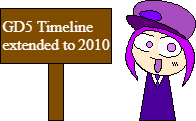
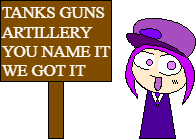
added Landkreuzer P.1500 Monster

diff --git a/data/generators/recipes.py b/data/generators/recipes.py
@@ -182,10 +182,15 @@ UNIT_SECTIONS = [
                     "speed": const(1), "cost_materials": const(16000), "cost_manpower": const(1000),
                     "cost_fuel": const(200), "production_time": const(6),
         }),
-        UnitFamily("Landkreuzer", roman_suffixes(2), {
-            "health": linear(10000, 2000), "attack": linear(6000, 1000), "defense": linear(800, 100),
-            "speed": const(1), "cost_materials": const(100000), "cost_manpower": const(2000),
-            "cost_fuel": const(3000), "production_time": const(8),
+        UnitFamily("Landkreuzer P.1000 Ratte", single(), {
+            "health": 10000, "attack": 6000, "defense": 800,
+            "speed": 1, "cost_materials": 100000, "cost_manpower": 2000,
+            "cost_fuel": 3000, "production_time": 8,
+        }),
+        UnitFamily("Landkreuzer P.1500 Monster", single(), {
+            "health": 15000, "attack": 8000, "defense": 800,
+            "speed": 1, "cost_materials": 150000, "cost_manpower": 2000,
+            "cost_fuel": 3000, "production_time": 8,
         }),
         UnitFamily("Main Battle Tank", roman_suffixes(14), {
             "health": linear(5000, 500), "attack": linear(5000, 500), "defense": linear(250, 25),
@@ -349,8 +354,10 @@ RESEARCH_SECTIONS = [
                          "req": {"medium_tank": 1}, "years": years_range(1929, 4, 4)}),
         ("super_heavy_tank", {"category": "TANKS", "max_lvl": 3, "cost": 2400,
                                 "req": {"heavy_tank": 4}, "years": years_range(1945, 4, 3)}),
-        ("landkreuzer", {"category": "TANKS", "max_lvl": 2, "cost": 3600,
-                                        "req": {"heavy_tank": 4}, "years": years_range(1944, 6, 2)}),
+        ("landkreuzer_p1000_ratte", {"category": "TANKS", "max_lvl": 1, "cost": 3000,
+                                        "req": {"heavy_tank": 4}, "years": years_range(1944, 6, 1)}),
+        ("landkreuzer_p1500_monster", {"category": "TANKS", "max_lvl": 1, "cost": 3600,
+                                                "req": {"landkreuzer_p1000_ratte": 1}, "years": years_range(1952, 8, 1)}),
         ("main_battle_tank", {"category": "TANKS", "max_lvl": 14, "cost": 2400,
                                "req": {"OR": [{"medium_tank": 4}, {"heavy_tank": 4}]},
                                "years": years_range(1945, 5, 14)}),

diff --git a/screens/map_related_screens/research.py b/screens/map_related_screens/research.py
@@ -65,7 +65,7 @@ class Research_Screen(GameState):
             "ww1_armored_car": y1, "armored_car": y1, "civilian_car": y1,
             "ww1_tank": y2, "light_tank": y2,
             "medium_tank": y3, "main_battle_tank": y3,
-            "heavy_tank": y4, "super_heavy_tank": y4, "landkreuzer": y5,
+            "heavy_tank": y4, "super_heavy_tank": y4, "landkreuzer_p1000_ratte": y5, "landkreuzer_p1500_monster": y5,
             "destroyer": y1,
             "carrack": y2, "ironclad": y2, "pre-dreadnought": y2, "dreadnought": y2,
             "battleship": y2,
@@ -151,6 +151,8 @@ class Research_Screen(GameState):
         if tech_key == "bergius_process": return "Bergius Process"
         if tech_key == "basic_factory": return "Basic Factory"
         if tech_key == "basic_recruitment": return "Basic Recruitment Center"
+        if tech_key == "landkreuzer_p1000_ratte": return "Landkreuzer P.1000 Ratte"
+        if tech_key == "landkreuzer_p1500_monster": return "Landkreuzer P.1500 Monster"
         if tech_key == "recruitment_buildings": return f"Recruitment Building Lvl {lvl}"
         if tech_key == "general_recruitment": return f"General Recruitment Lvl {lvl}"
         if tech_key == "resource_refining": return f"Resource Refining Lvl {lvl}"
@@ -241,10 +243,15 @@ class Research_Screen(GameState):
         if any(tank in display_name.lower() for tank in small_vehicles):
             return "tech_square_medium"
 
-        # Check for landkreuzer
-        landkreuzer = ["landkreuzer"]
+        # Check for landkreuzer p.1000 ratte
+        landkreuzer = ["landkreuzer p.1000 ratte"]
         if any(tank in display_name.lower() for tank in landkreuzer):
-            return "tech_square_landkreuzer"
+            return "tech_square_landkreuzer_p1000_ratte"
+
+        # Check for landkreuzer p.1500 monster
+        landkreuzer2 = ["landkreuzer p.1500 monster"]
+        if any(tank in display_name.lower() for tank in landkreuzer2):
+            return "tech_square_landkreuzer_p1500_monster"
         
         # Check for wide categories
         if self.current_category in getattr(c, 'WIDE_RESEARCH_CATEGORIES', ["TANKS", "NAVY"]):

diff --git a/data/constants.py b/data/constants.py
@@ -422,7 +422,8 @@ SIZES = {
     "tech_square_medium": (100, 60),
     "tech_square_wide": (150, 60),
     "tech_square_ultra_wide": (270, 60),
-    "tech_square_landkreuzer": (400, 120),
+    "tech_square_landkreuzer_p1000_ratte": (400, 120),
+    "tech_square_landkreuzer_p1500_monster": (600, 180),
     "album_square": (200, 200),
     "left_ui_button": (120, 30),
     "new_game": (300, 50),
